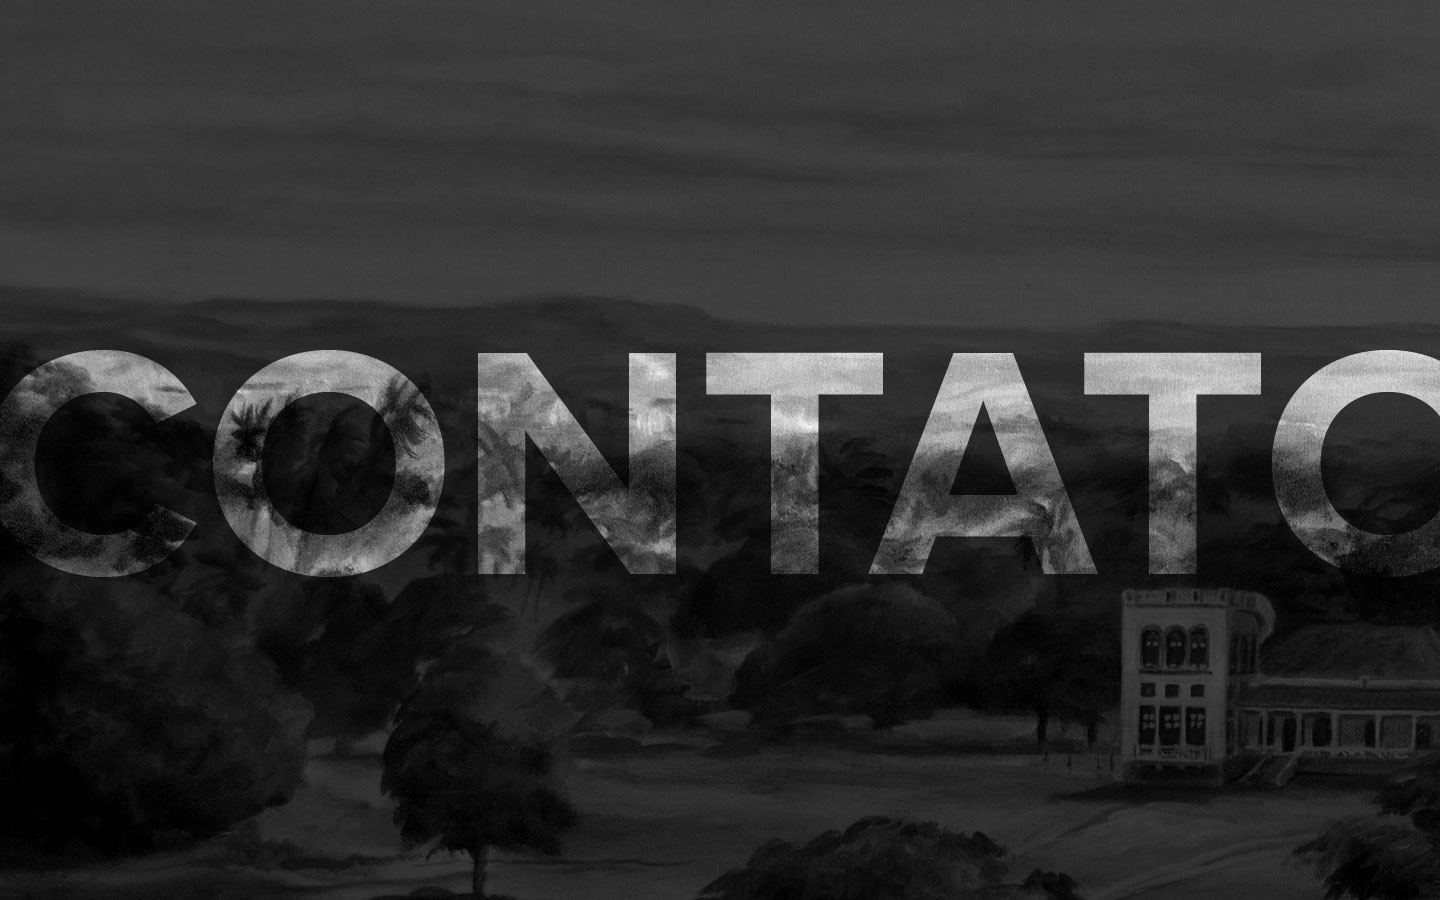
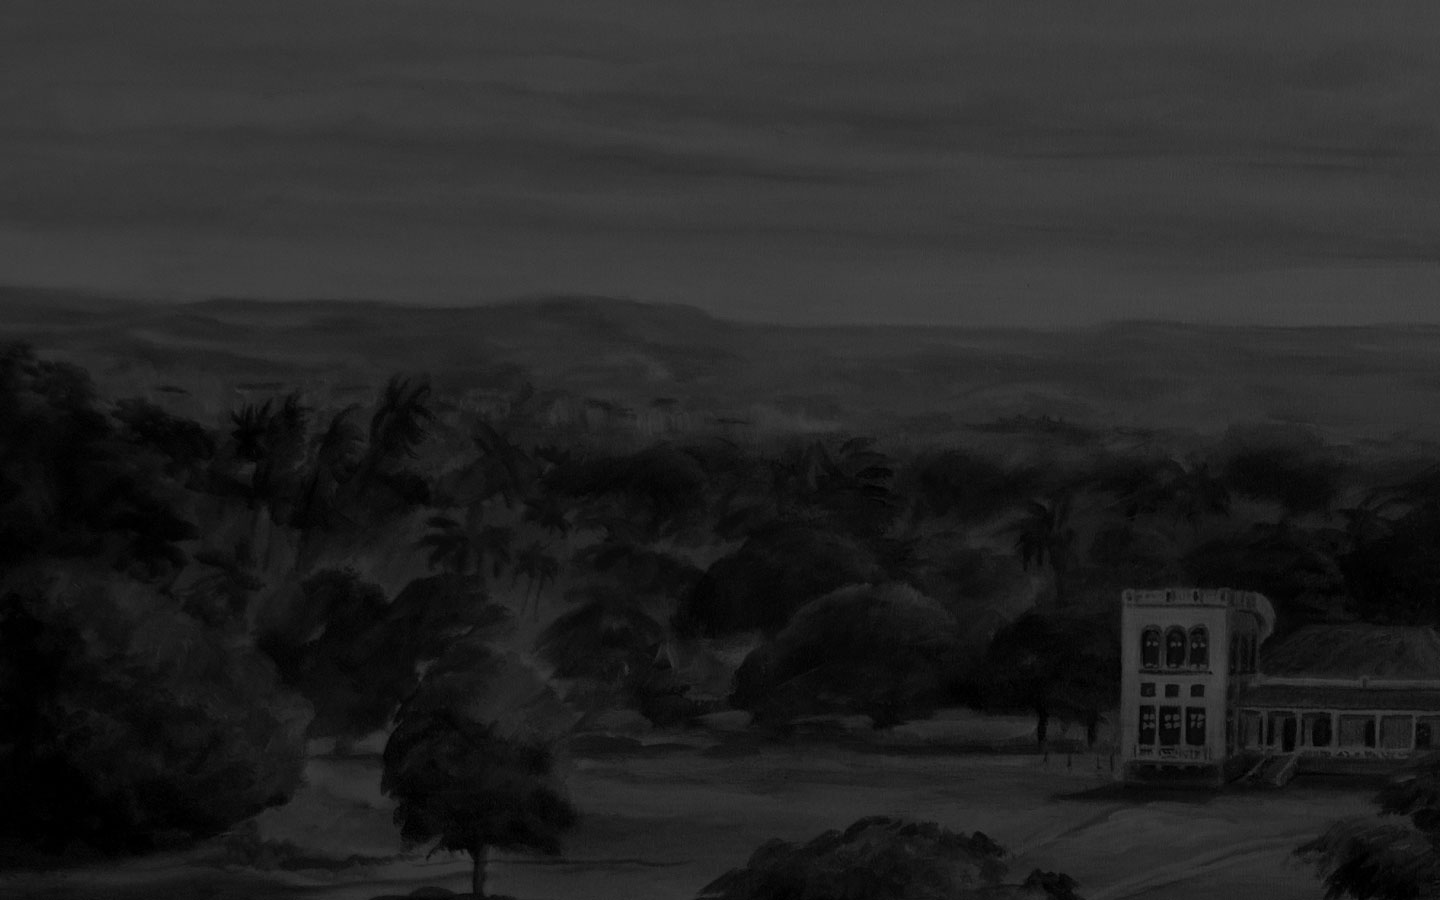
css contact/contato

Changed region(s): [[0.0, 0.3733, 1.0, 0.6533]]

diff --git a/libs/sass/sass/templates/_contact.scss b/libs/sass/sass/templates/_contact.scss
@@ -8,6 +8,28 @@ body.page-template-t-contact-php {
 	color: $color-white;
 	text-align: center;
 
+	.container {
+		position: relative;
+	}
+
+	.main-title {
+		@include hide-text;
+		@include opacity(0.1);
+		@include txt-sprite(contact);
+
+		margin-right: - txt-sprite-width(contact)/2;
+		position: absolute;
+		right: 50%;
+		top: 353px;
+		z-index: 0;
+
+		.top-page-slug-pt_br & {
+			@include txt-sprite(contato);
+
+			margin-right: - txt-sprite-width(contato)/2;
+		}
+	}	
+
 	.outter {
 		@include pre(6);
 		@include span-columns(7);

diff --git a/t-contact.php b/t-contact.php
@@ -6,23 +6,26 @@ Template Name: [en] Contact
 <?php get_header(); ?>
 <section id="t-contact" class="vcard">
 	<div class="container">
-		<div class="outter">
-			<div class="inner">
-				<address>
-					<h1 class="fn">Ateliê Flávio Tavares</h1>
-					<p class="adr"><span class="street-address">Rua Maria José Rique, quadra 177, loteamento Cidade Recreio</span>, Altiplano, <span class="locality">João Pessoa</span> - <abbr class="region" title="Paraíba">PB</abbr> - <a href="#">Veja mapa aqui</a></p>
-					<p>Terças, quintas e sábados.</p>
-					<p>Agendar horário para visitação.</p>
-					<p class="tel">Fone: (83) 3226 7376</p>
-				</address>
-				<address>
-					<h1>Na Web</h1>
-					<p class="email">contato@flaviotavares.com.br</p>
-					<p class="url">www.facebook.com/flaviotavares</p>
-					<p class="url">www.youtube.com.br/flaviotavares</p>
-				</address>
+		<section class="content">
+			<h1 class="main-title"><?php the_title(); ?></h1>
+			<div class="outter">
+				<div class="inner">
+					<address>
+						<h1 class="fn">Ateliê Flávio Tavares</h1>
+						<p class="adr"><span class="street-address">Rua Maria José Rique, quadra 177, loteamento Cidade Recreio</span>, Altiplano, <span class="locality">João Pessoa</span> - <abbr class="region" title="Paraíba">PB</abbr> - <a href="#">Veja mapa aqui</a></p>
+						<p>Terças, quintas e sábados.</p>
+						<p>Agendar horário para visitação.</p>
+						<p class="tel">Fone: (83) 3226 7376</p>
+					</address>
+					<address>
+						<h1>Na Web</h1>
+						<p class="email">contato@flaviotavares.com.br</p>
+						<p class="url">www.facebook.com/flaviotavares</p>
+						<p class="url">www.youtube.com.br/flaviotavares</p>
+					</address>
+				</div>
 			</div>
-		</div>
+		</section>
 	</div>
 </section>
 <?php get_footer(); ?>
